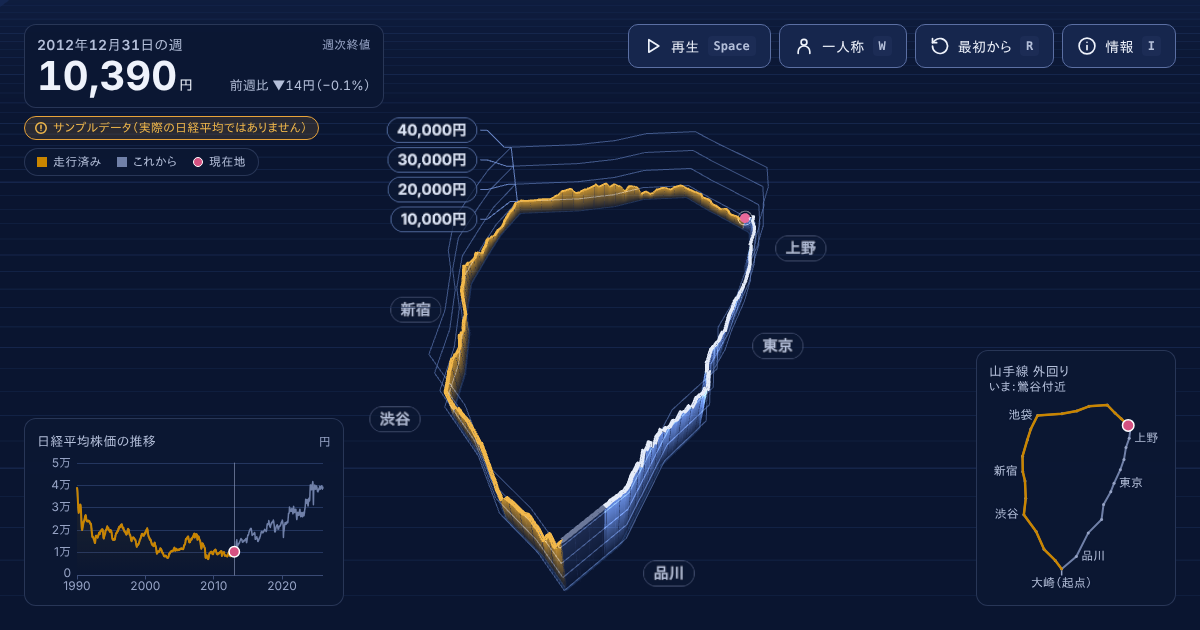
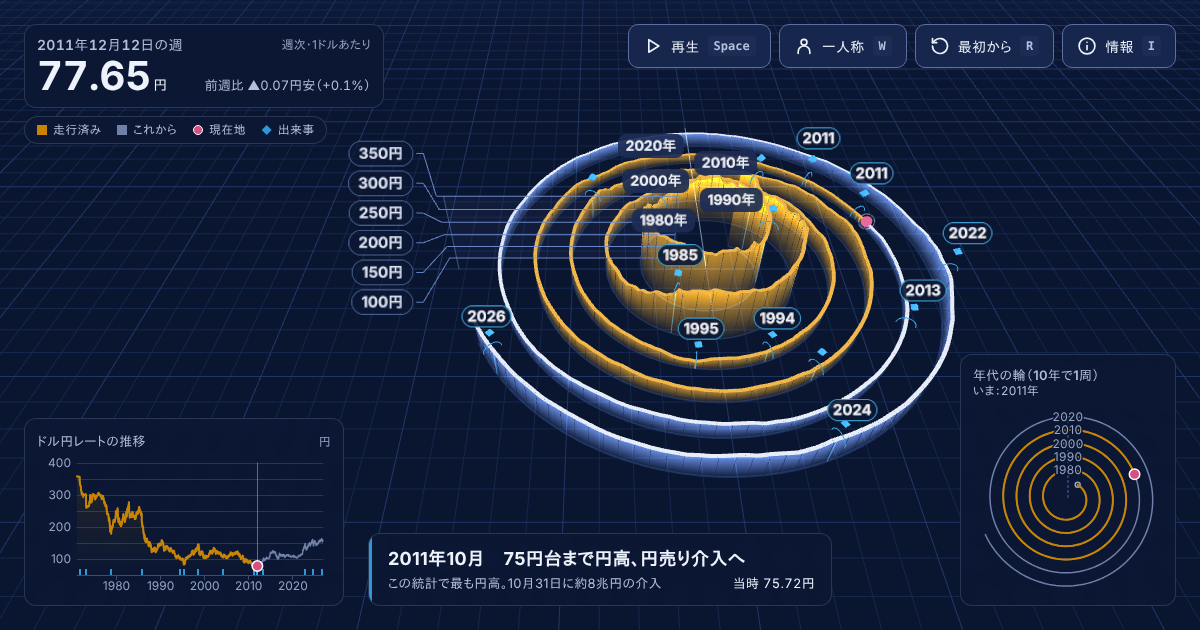
走行中にスタート画面へ戻る「トップ」ボタンを追加、OGP 画像を螺旋の俯瞰に差し替え
- 操作ボタンに「トップ」（T キー）を追加。ページを開き直してスタート画面へ戻る（選んでいたデータのまま。そこから別のデータへ切り替えられる）
- ボタンが5つになったので、ラベルつきの横長は幅 1200px 以上に、スマートフォンでは「アイコンの下にラベル」に変更
- 情報パネルの操作の表と README に追記
- assets/og.png をドル円の螺旋の俯瞰に差し替え

Claude-Session: https://claude.ai/code/session_01PEzRMmPxqRnjiD8gXrGJ31

diff --git a/assets/js/ui/buttons.js b/assets/js/ui/buttons.js
@@ -1,4 +1,4 @@
-// 操作ボタン（#hud-controls）：一時停止／再生、俯瞰／一人称、最初から、情報。担当：操作ボタン。
+// 操作ボタン（#hud-controls）：一時停止／再生、俯瞰／一人称、最初から、トップ（スタート画面へ戻る）、情報。
 //
 // ボタンは index.html の [hud-controls] に書いてある（data-action で見分ける）。ここでは次の 3 つをする。
 //   1. 押されたら ride / view / events を呼ぶ（click だけ。タッチもキーボード（Space・Enter）も同じ経路）。
@@ -18,11 +18,13 @@ const ICONS = {
 	person: '<circle cx="12" cy="7.5" r="3.5"/><path d="M5 21v-2a7 7 0 0 1 14 0v2"/>',
 	// 最初から（↺）
 	restart: '<path d="M3 12a9 9 0 1 0 3-6.7L3 8"/><path d="M3 3v5h5"/>',
+	// トップ（家）
+	home: '<path d="M3 11.5 12 4l9 7.5"/><path d="M5.5 10v10h13V10"/><path d="M10 20v-6h4v6"/>',
 	info: '<circle cx="12" cy="12" r="9.5"/><path d="M12 16.5v-5"/><path d="M12 7.6h.01"/>'
 };
 
 /**
- * 状態から、4 つのボタンの表示を決める（DOM に依存しない）。
+ * 状態から、5 つのボタンの表示を決める（DOM に依存しない）。
  * @param {{ paused?: boolean, finished?: boolean, view?: 'ride'|'overview', infoOpen?: boolean }} state
  * @returns 各ボタンの { label, ariaLabel, icon, disabled }（情報は expanded も）
  */
@@ -36,6 +38,7 @@ export function describeButtons( { paused = false, finished = false, view = 'rid
 			? { label: '一人称', ariaLabel: '一人称に戻る（W）', icon: 'person', disabled: false }
 			: { label: '俯瞰', ariaLabel: '俯瞰で見る（W）', icon: 'eye', disabled: false },
 		restart: { label: '最初から', ariaLabel: '最初から乗り直す（R）', icon: 'restart', disabled: false },
+		home: { label: 'トップ', ariaLabel: 'スタート画面に戻る（T）', icon: 'home', disabled: false },
 		info: { label: '情報', ariaLabel: '情報パネルを開く（I）', icon: 'info', disabled: false, expanded: Boolean( infoOpen ) }
 	};
 
@@ -57,6 +60,13 @@ function setIcon( svg, name ) {
 	if ( svg.dataset.icon === name ) return;
 	svg.dataset.icon = name;
 	svg.innerHTML = ICONS[ name ];
+
+}
+
+/** スタート画面へ戻る：ページを開き直す。 */
+export function goHome() {
+
+	window.location.reload();
 
 }
 
@@ -114,6 +124,8 @@ export function createButtons( ctx ) {
 			if ( ride.started ) ride.restart();
 
 		},
+		// スタート画面へ戻る。ページを開き直す（URL の ?data= は残るので、選んでいたデータのスタート画面になる）
+		home: () => ( ctx.ui?.goHome ?? goHome )(),
 		// trigger を渡す：クリックでボタンにフォーカスが移らないブラウザ（Safari、macOS の Firefox）でも、閉じたあとここへ戻せる
 		info: () => events.emit( 'infopanel:toggle', { trigger: buttons.info?.el } )
 	};

diff --git a/assets/css/controls.css b/assets/css/controls.css
@@ -1,8 +1,8 @@
 /* 操作ボタン（#hud-controls の中のボタン）。担当：操作ボタン。
    共通の見た目は base.css の .btn / .kbd。コンテナの位置とサイズは hud.css（変えない）。
-   L（1024px 以上）：アイコン・ラベル・kbd チップを並べた横長。
-   M（721〜1023px）と短い横長：44x44 のアイコンだけ（ラベルと kbd は隠す。名前は aria-label が伝える）。
-   S（720px 以下）：画面下に 4 等分。アイコンとラベルを横に並べ、kbd は出さない。 */
+   L（1200px 以上）：アイコン・ラベル・kbd チップを並べた横長。
+   M（721〜1199px）と短い横長：44x44 のアイコンだけ（ラベルと kbd は隠す。名前は aria-label が伝える）。
+   S（720px 以下）：画面下に 5 等分。アイコンの下にラベルを置き、kbd は出さない。 */
 
 #hud-controls .ctl-btn {
 	position: relative;
@@ -28,7 +28,7 @@
 }
 
 /* ---- M と短い横長：アイコンだけ ---- */
-@media (max-width: 1023.98px), (max-height: 520px) and (orientation: landscape) {
+@media (max-width: 1199.98px), (max-height: 520px) and (orientation: landscape) {
 	#hud-controls .ctl-btn {
 		width: 44px;
 		padding: 0;
@@ -40,9 +40,10 @@
 	}
 }
 
-/* ---- S（短い横長を除く）：4 等分、アイコンとラベルを横に ---- */
+/* ---- S（短い横長を除く）：5 等分、アイコンの下にラベル ---- */
 @media (max-width: 720px) and (min-height: 521px), (max-width: 720px) and (orientation: portrait) {
 	#hud-controls {
+		gap: 6px;
 		transform: translateY( var( --shift-md ) );
 	}
 
@@ -52,30 +53,24 @@
 
 	#hud-controls .ctl-btn {
 		flex: 1 1 0;
+		flex-direction: column;
 		width: auto;
 		min-width: 0;
 		height: 48px;
-		padding: 0 4px;
-		gap: 4px;
-		font-size: var(--fs-13);
-	}
-
-	#hud-controls .ctl-label {
-		display: inline;
-	}
-}
-
-/* 幅 360 前後：4 つのラベルが収まるよう、アイコンと文字を少し詰める */
-@media (max-width: 380px) and (min-height: 521px), (max-width: 380px) and (orientation: portrait) {
-	#hud-controls .ctl-btn {
 		padding: 0 2px;
-		gap: 3px;
-		font-size: var(--fs-12);
+		gap: 2px;
+		font-size: var(--fs-11, 11px);
+		line-height: 1;
 	}
 
 	#hud-controls .ctl-btn svg {
 		width: 18px;
 		height: 18px;
+	}
+
+	#hud-controls .ctl-label {
+		display: inline;
+		white-space: nowrap;
 	}
 }
 

diff --git a/index.html b/index.html
@@ -139,6 +139,11 @@
 					<span class="ctl-label">最初から</span>
 					<kbd class="kbd" aria-hidden="true">R</kbd>
 				</button>
+				<button type="button" id="home-btn" class="btn ctl-btn" data-action="home" aria-label="スタート画面に戻る（T）" aria-keyshortcuts="T">
+					<svg class="ctl-icon" viewBox="0 0 24 24" aria-hidden="true" focusable="false"></svg>
+					<span class="ctl-label">トップ</span>
+					<kbd class="kbd" aria-hidden="true">T</kbd>
+				</button>
 				<button type="button" id="info-btn" class="btn ctl-btn" data-action="info" aria-label="情報パネルを開く（I）" aria-keyshortcuts="I" aria-expanded="false" aria-controls="info-panel">
 					<svg class="ctl-icon" viewBox="0 0 24 24" aria-hidden="true" focusable="false"></svg>
 					<span class="ctl-label">情報</span>
@@ -225,6 +230,7 @@
 								<tr><th scope="row">一時停止・再生</th><td><kbd class="kbd">Space</kbd>／「一時停止」ボタン</td></tr>
 								<tr><th scope="row">俯瞰</th><td><kbd class="kbd">W</kbd>（押している間）／「俯瞰」ボタン（押すたびに切り替え）</td></tr>
 								<tr><th scope="row">最初から</th><td><kbd class="kbd">R</kbd>／「最初から」ボタン</td></tr>
+								<tr><th scope="row">スタート画面へ戻る</th><td><kbd class="kbd">T</kbd>／「トップ」ボタン</td></tr>
 								<tr><th scope="row">情報パネル</th><td><kbd class="kbd">I</kbd>／「情報」ボタン。閉じるのは <kbd class="kbd">Esc</kbd></td></tr>
 							</tbody>
 						</table>

diff --git a/assets/js/controls.js b/assets/js/controls.js
@@ -2,11 +2,14 @@
 //   SPACE : 一時停止と再生のトグル
 //   W     : 押している間だけ俯瞰（離すと、押す前の視点に戻る）
 //   R     : 最初から
+//   T     : スタート画面へ戻る（ページを開き直す）
 // フォーカスがボタン・リンク・入力欄にあるときは SPACE を横取りしない（ボタンの操作を優先する。
 // Space・Enter はそのボタンの click になるので、ショートカットと二重に働かない）。
 // W を押しているあいだに、画面上のボタンで視点を選び直したときは、離したあとその視点にとどまる。
 // 修飾キー（Ctrl / Cmd / Alt）つきは無視する（Ctrl+R のリロードなどを妨げない）。
 // 画面上のボタンは ui/buttons.js。
+
+import { goHome } from './ui/buttons.js';
 
 const INTERACTIVE = 'button, a[href], input, select, textarea, summary, [role="button"], [contenteditable=""], [contenteditable="true"]';
 const TEXT_INPUT = 'input, select, textarea, [contenteditable=""], [contenteditable="true"]';
@@ -70,6 +73,12 @@ export function createControls( { ride, view, events = null } ) {
 
 			if ( e.repeat || ! ride.started ) return;
 			ride.restart();
+
+		} else if ( e.key === 't' || e.key === 'T' ) {
+
+			// スタート画面へ戻る（走行を始めたあとだけ。スタート画面では何もしない）
+			if ( e.repeat || ! ride.started ) return;
+			goHome();
 
 		}
 

diff --git a/assets/css/hud.css b/assets/css/hud.css
@@ -171,8 +171,8 @@
 	#hud-readout {
 		left: calc(var(--hud-m) + var(--safe-l));
 		right: auto;
-		/* 右の操作ボタン（44 x 4 + gap 8 x 3 = 200）と重ならない幅 */
-		width: min(360px, calc(100vw - 2 * var(--hud-m) - 200px - 12px));
+		/* 右の操作ボタン（44 x 5 + gap 8 x 4 = 252）と重ならない幅 */
+		width: min(360px, calc(100vw - 2 * var(--hud-m) - 252px - 12px));
 		min-width: 0;
 	}
 

diff --git a/README.md b/README.md
@@ -134,10 +134,11 @@ node scripts/fetch-nikkei.mjs --from-file 保存したファイル
 | 一時停止／再生 | `Space` | 走行を止める、再び走らせる。 |
 | 俯瞰／一人称 | `W` | `W` は押している間だけ俯瞰で、離すと元の視点に戻ります。ボタンは押すたびに俯瞰と一人称を切り替えます。 |
 | 最初から | `R` | 最初の週へ戻って、走り直します。一時停止中でも、走行が再開します。 |
+| トップ | `T` | スタート画面へ戻ります（ページを開き直します。選んでいたデータのスタート画面になり、ほかのデータへ切り替えられます）。 |
 | 情報 | `I` | 情報パネル（しくみ、操作、データ出典、クレジット）を開きます。もう一度 `I`、`Esc`、閉じるボタン、パネルの外側のクリックで閉じます。 |
 
 - 情報パネルを開いているあいだは、走行が止まります。閉じると再開します（開く前から止まっていたときは、止まったままです）。パネルの表示中は、`W` と `R` は効きません。
-- 乗車前の `Space` と `R` は、何もしません。最後の週で止まったあとの `Space` は、止まったままです（`R` で最初から走り直せます）。
+- 乗車前の `Space`・`R`・`T` は、何もしません。最後の週で止まったあとの `Space` は、止まったままです（`R` で最初から走り直せます）。
 - 画面のボタンやリンクにフォーカスがあるとき、`Space` は、そのボタンを押す動作になります。終了画面は「もう一度乗る」にフォーカスがあるので、`Space` で最初から走り直します。
 - `Ctrl`・`Cmd`・`Alt` を押しながらのキーは、無視します。
 
